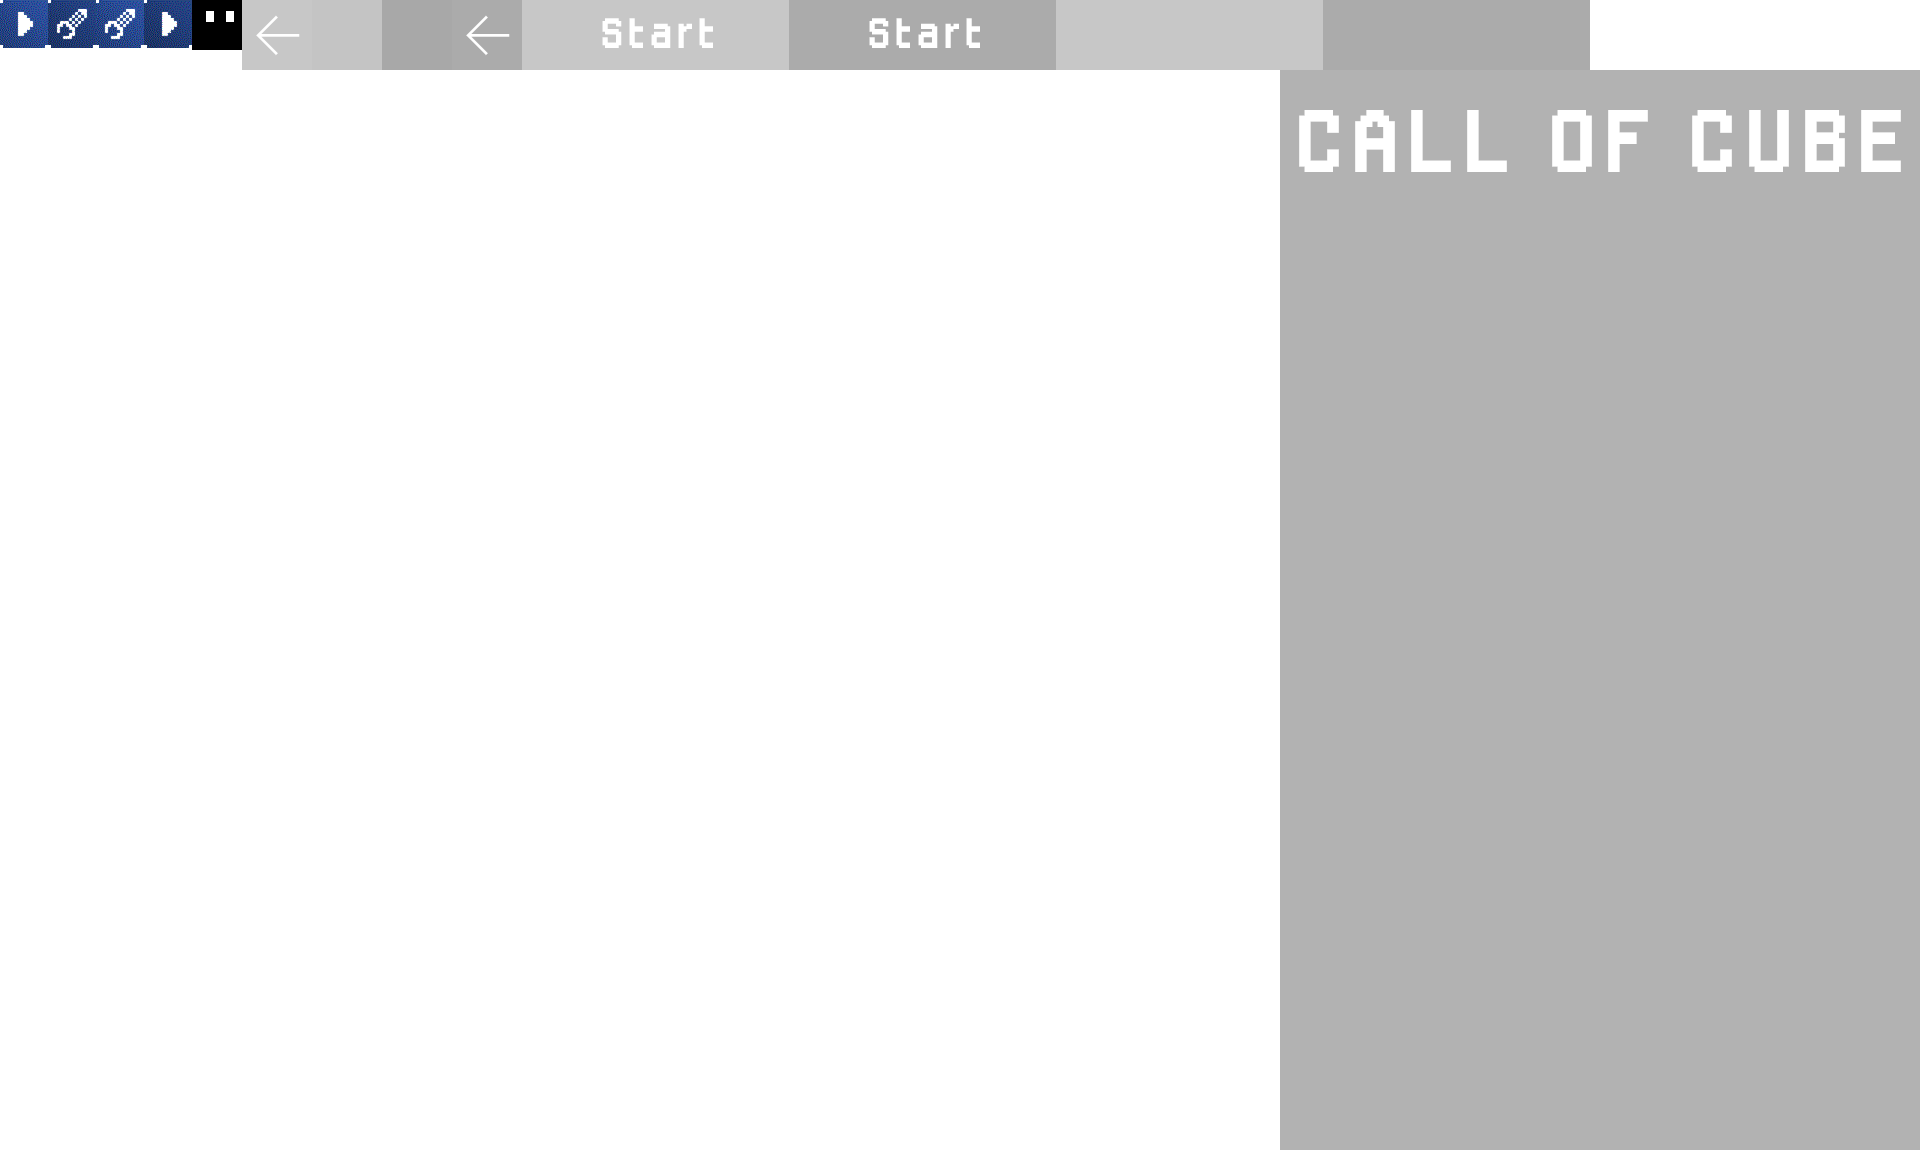
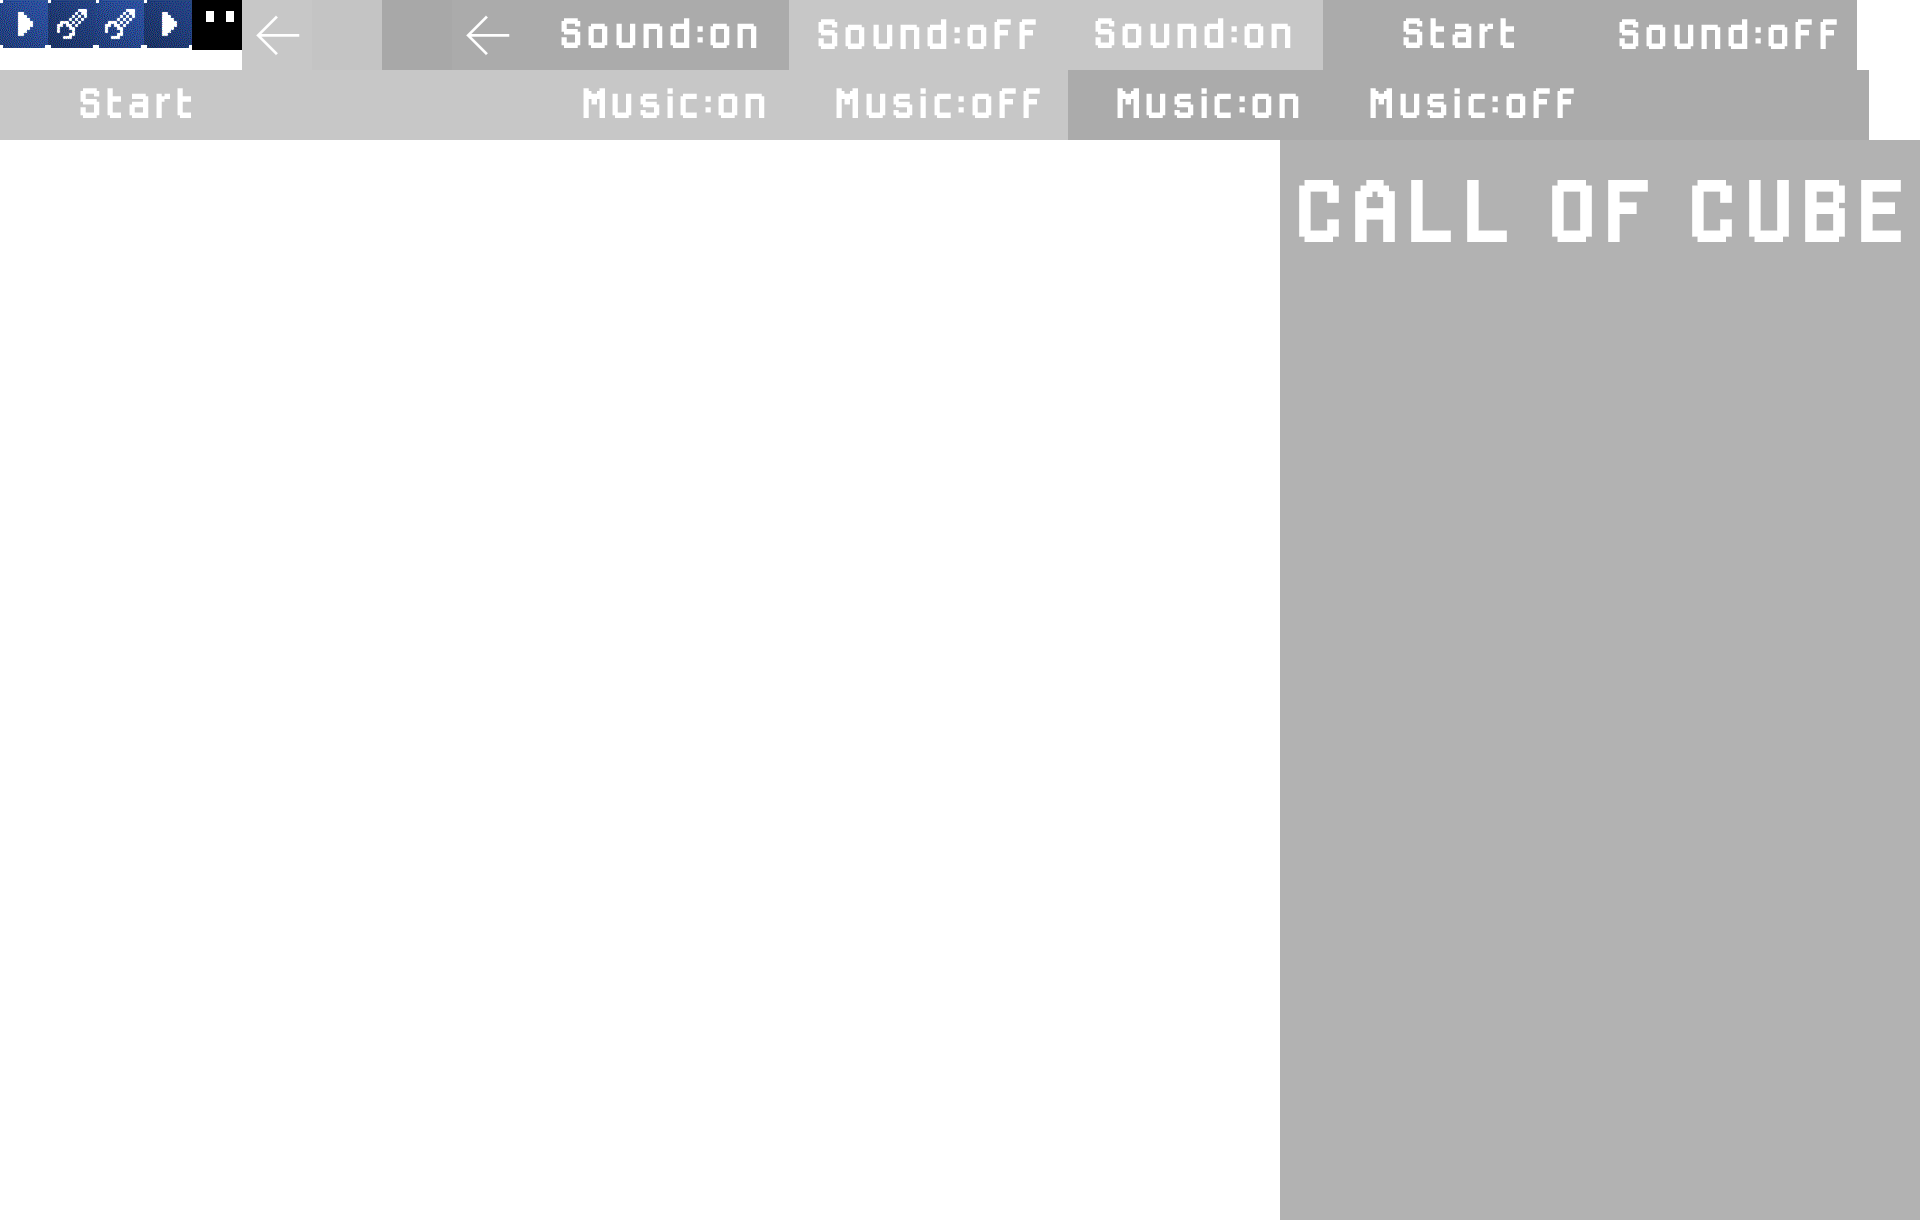
添加设置声音和背景音乐的按钮

Changed region(s): [[0.0, 0.0, 1.0, 0.213], [0.8125, 0.0, 0.9688, 0.0609]]

diff --git a/core/src/com/rollernigi/game/screens/SelectStageScreen.java b/core/src/com/rollernigi/game/screens/SelectStageScreen.java
@@ -17,6 +17,8 @@ import com.badlogic.gdx.scenes.scene2d.ui.Table;
 import com.badlogic.gdx.scenes.scene2d.utils.ChangeListener;
 import com.badlogic.gdx.utils.viewport.StretchViewport;
 import com.rollernigi.game.BasicClass.Assets;
+import com.rollernigi.game.BasicClass.WorldController;
+import com.rollernigi.game.BasicClass.WorldRenderer;
 import com.rollernigi.game.screens.transitions.DirectedGame;
 import com.rollernigi.game.screens.transitions.ScreenTransitionSlide;
 import com.rollernigi.game.util.Constants;
@@ -29,10 +31,28 @@ public class SelectStageScreen extends AbstractGameScreen{
     private Stage stage;
     private Skin skinCOC;
 
+
+    public String selectedLevel="00";
+
     //菜单
     private Image imgBackground;
     private Image imgJumper;
     private Button btnMenuPlay;
+    private Button btnMenuPlay2;
+    private Button btnMenuPlay3;
+    private Button btnMenuPlay4;
+    private Button btnMenuPlay5;
+    private Button btnMenuPlay6;
+    private Button btnMenuPlay7;
+    private Button btnMenuPlay8;
+    private Button btnMenuPlay9;
+    private Button btnMenuPlay10;
+    private Button btnMenuPlay11;
+    private Button btnMenuPlay12;
+    private Button btnMenuPlay13;
+    private Button btnMenuPlay14;
+    private Button btnMenuPlay15;
+    private Button btnMenuPlay16;
     private Button btnMenuOptions;
 
     //TODO:Add more levels
@@ -72,7 +92,6 @@ public class SelectStageScreen extends AbstractGameScreen{
 
     private Table buildControlLayer1() {
         Table layer = new Table();
-        layer.right().bottom();
 
         //开始按钮
         btnMenuPlay = new Button(skinCOC,"BlockButton");
@@ -83,6 +102,141 @@ public class SelectStageScreen extends AbstractGameScreen{
                 onPlayClicked();
             }
         });
+
+        //开始按钮
+        btnMenuPlay2 = new Button(skinCOC,"BlockButton");
+        layer.add(btnMenuPlay2);
+        btnMenuPlay.addListener(new ChangeListener() {
+            @Override
+            public void changed(ChangeEvent event, Actor actor) {
+                onPlayClicked();
+            }
+        });
+
+        //开始按钮
+        btnMenuPlay3 = new Button(skinCOC,"BlockButton");
+        layer.add(btnMenuPlay3);
+        btnMenuPlay.addListener(new ChangeListener() {
+            @Override
+            public void changed(ChangeEvent event, Actor actor) {
+                onPlayClicked();
+            }
+        });
+
+        //开始按钮
+        btnMenuPlay4 = new Button(skinCOC,"BlockButton");
+        layer.add(btnMenuPlay4);
+        btnMenuPlay.addListener(new ChangeListener() {
+            @Override
+            public void changed(ChangeEvent event, Actor actor) {
+                onPlayClicked();
+            }
+        });
+        btnMenuPlay5 = new Button(skinCOC,"BlockButton");
+        layer.add(btnMenuPlay5);
+        btnMenuPlay.addListener(new ChangeListener() {
+            @Override
+            public void changed(ChangeEvent event, Actor actor) {
+                onPlayClicked();
+            }
+        });
+        btnMenuPlay6 = new Button(skinCOC,"BlockButton");
+        layer.add(btnMenuPlay6);
+        btnMenuPlay.addListener(new ChangeListener() {
+            @Override
+            public void changed(ChangeEvent event, Actor actor) {
+                onPlayClicked();
+            }
+        });
+        btnMenuPlay7 = new Button(skinCOC,"BlockButton");
+        layer.add(btnMenuPlay7);
+        btnMenuPlay.addListener(new ChangeListener() {
+            @Override
+            public void changed(ChangeEvent event, Actor actor) {
+                onPlayClicked();
+            }
+        });
+        btnMenuPlay8 = new Button(skinCOC,"BlockButton");
+        layer.add(btnMenuPlay8);
+        btnMenuPlay.addListener(new ChangeListener() {
+            @Override
+            public void changed(ChangeEvent event, Actor actor) {
+                onPlayClicked();
+            }
+        });
+        layer.row();
+        //开始按钮
+        btnMenuPlay9 = new Button(skinCOC,"BlockButton");
+        layer.add(btnMenuPlay9);
+        btnMenuPlay.addListener(new ChangeListener() {
+            @Override
+            public void changed(ChangeEvent event, Actor actor) {
+                onPlayClicked();
+            }
+        });
+
+        //开始按钮
+        btnMenuPlay10 = new Button(skinCOC,"BlockButton");
+        layer.add(btnMenuPlay10);
+        btnMenuPlay.addListener(new ChangeListener() {
+            @Override
+            public void changed(ChangeEvent event, Actor actor) {
+                onPlayClicked();
+            }
+        });
+
+        //开始按钮
+        btnMenuPlay11 = new Button(skinCOC,"BlockButton");
+        layer.add(btnMenuPlay11);
+        btnMenuPlay.addListener(new ChangeListener() {
+            @Override
+            public void changed(ChangeEvent event, Actor actor) {
+                onPlayClicked();
+            }
+        });
+
+        //开始按钮
+        btnMenuPlay12 = new Button(skinCOC,"BlockButton");
+        layer.add(btnMenuPlay12);
+        btnMenuPlay.addListener(new ChangeListener() {
+            @Override
+            public void changed(ChangeEvent event, Actor actor) {
+                onPlayClicked();
+            }
+        });
+        btnMenuPlay13 = new Button(skinCOC,"BlockButton");
+        layer.add(btnMenuPlay13);
+        btnMenuPlay.addListener(new ChangeListener() {
+            @Override
+            public void changed(ChangeEvent event, Actor actor) {
+                onPlayClicked();
+            }
+        });
+        btnMenuPlay14 = new Button(skinCOC,"BlockButton");
+        layer.add(btnMenuPlay14);
+        btnMenuPlay.addListener(new ChangeListener() {
+            @Override
+            public void changed(ChangeEvent event, Actor actor) {
+                onPlayClicked();
+            }
+        });
+        btnMenuPlay15 = new Button(skinCOC,"BlockButton");
+        layer.add(btnMenuPlay15);
+        btnMenuPlay.addListener(new ChangeListener() {
+            @Override
+            public void changed(ChangeEvent event, Actor actor) {
+                onPlayClicked();
+            }
+        });
+        btnMenuPlay16 = new Button(skinCOC,"BlockButton");
+        layer.add(btnMenuPlay16);
+        btnMenuPlay.addListener(new ChangeListener() {
+            @Override
+            public void changed(ChangeEvent event, Actor actor) {
+                onPlayClicked();
+            }
+        });
+
 
 
         return  layer;
@@ -151,11 +305,15 @@ public class SelectStageScreen extends AbstractGameScreen{
 
     private void gotoGameScreen(){
         ScreenTransition transition = ScreenTransitionFade.init(0.75f);
-        game.setScreen(new GameScreen(game),transition);
+        game.setScreen(new  GameScreen(game),transition);
     }
 
     private void backToMenuScreen(){
         ScreenTransition transition = ScreenTransitionSlide.init(0.75f,ScreenTransitionSlide.RIGHT,false,Interpolation.bounceOut);
         game.setScreen(new MenuScreen(game),transition);
+    }
+
+    public String getSelectedLevel() {
+        return selectedLevel;
     }
 }

diff --git a/core/src/com/rollernigi/game/screens/MenuScreen.java b/core/src/com/rollernigi/game/screens/MenuScreen.java
@@ -25,6 +25,7 @@ import com.rollernigi.game.screens.transitions.DirectedGame;
 import com.rollernigi.game.screens.transitions.ScreenTransitionSlide;
 import com.rollernigi.game.util.Constants;
 import com.rollernigi.game.screens.transitions.ScreenTransition;
+import com.rollernigi.game.util.GamePerferences;
 import com.rollernigi.game.screens.transitions.ScreenTransitionFade;
 
 public class MenuScreen extends AbstractGameScreen{
@@ -42,10 +43,32 @@ public class MenuScreen extends AbstractGameScreen{
     private Button btnMenuOptions3;
     private Button btnMenuOptions4;
 
+    private boolean ssound=true,smusic=true;
+
     private boolean paused;
 
     private WorldController worldController;
     private WorldRenderer worldRenderer;
+
+    private void loadSettings(){
+        GamePerferences prefs = GamePerferences.instance;
+        prefs.load();
+        if(prefs.music==true){
+            smusic=true;
+            btnMenuOptions4 = new Button(skinCOC,"MusicButton");
+        }else if(prefs.music==false){
+            smusic=false;
+            btnMenuOptions4 = new Button(skinCOC,"MusicButton2");
+        }
+        if(prefs.sound==true){
+            ssound=true;
+            btnMenuOptions3 = new Button(skinCOC,"SoundButton");
+        }else if(prefs.sound==false){
+            ssound=false;
+            btnMenuOptions3 = new Button(skinCOC,"SoundButton2");
+        }
+       refresh();
+    }
 
 
     public MenuScreen(DirectedGame game) {
@@ -71,18 +94,10 @@ public class MenuScreen extends AbstractGameScreen{
         worldRenderer.setHideGUI();
         worldController.setInputAble();
         skinCOC=new Skin(Gdx.files.internal(Constants.SKIN_COC_UI),new TextureAtlas(Constants.TEXTURE_ATLAS_UI));
+        btnMenuOptions4 = new Button(skinCOC,"MusicButton");
+        btnMenuOptions4 = new Button(skinCOC,"MusicButton2");
+        loadSettings();
 
-        Table layerBackground = buildBackgourndLayer();
-        Table layerLogo = buildLogoLayer();
-        Table layerControls = buildControlLayer();
-
-        stage.clear();
-        Stack stack = new Stack();
-        stage.addActor(stack);
-        stack.setSize(800f,480f);
-        stack.add(layerBackground);
-        stack.add(layerLogo);
-        stack.add(layerControls);
     }
 
     private Table buildBackgourndLayer() {
@@ -125,25 +140,29 @@ public class MenuScreen extends AbstractGameScreen{
             }
         });
         layer.row();
-        btnMenuOptions3 = new Button(skinCOC,"defaultButton");
         layer.add(btnMenuOptions3);
-        btnMenuOptions.addListener(new ChangeListener() {
+        btnMenuOptions3.addListener(new ChangeListener() {
             @Override
             public void changed(ChangeEvent event, Actor actor) {
-                onOptionsClicked();
+                ssound=!ssound;
+                GamePerferences prers = GamePerferences.instance;
+                prers.sound=ssound;
+                prers.save();
+                loadSettings();
             }
         });
         layer.row();
-        btnMenuOptions4 = new Button(skinCOC,"defaultButton");
         layer.add(btnMenuOptions4);
-        btnMenuOptions.addListener(new ChangeListener() {
+        btnMenuOptions4.addListener(new ChangeListener() {
             @Override
             public void changed(ChangeEvent event, Actor actor) {
-                onOptionsClicked();
+                smusic=!smusic;
+                GamePerferences prers = GamePerferences.instance;
+                prers.music=smusic;
+                prers.save();
+                loadSettings();
             }
         });
-
-
 
         return  layer;
     }
@@ -198,4 +217,19 @@ public class MenuScreen extends AbstractGameScreen{
         ScreenTransition transition = ScreenTransitionSlide.init(0.75f,ScreenTransitionSlide.LEFT,false,Interpolation.bounceOut);
         game.setScreen(new SelectStageScreen(game),transition);
     }
+
+    private void refresh(){
+        Table layerBackground = buildBackgourndLayer();
+        Table layerLogo = buildLogoLayer();
+        Table layerControls = buildControlLayer();
+
+        stage.clear();
+        Stack stack = new Stack();
+        stage.addActor(stack);
+        stack.setSize(800f,480f);
+        stack.add(layerBackground);
+        stack.add(layerLogo);
+        stack.add(layerControls);
+    }
+
 }

diff --git a/core/src/com/rollernigi/game/util/GamePerferences.java b/core/src/com/rollernigi/game/util/GamePerferences.java
@@ -1,0 +1,35 @@
+package com.rollernigi.game.util;
+
+import com.badlogic.gdx.Gdx;
+import com.badlogic.gdx.Preferences;
+import com.badlogic.gdx.math.MathUtils;
+import com.rollernigi.game.util.Constants;
+
+import java.security.Permission;
+
+public class GamePerferences
+{
+    public static final GamePerferences instance = new GamePerferences();
+
+    public boolean sound;
+    public boolean music;
+    public String currentLevel;
+
+    private Preferences prers;
+
+    private GamePerferences(){
+        prers = Gdx.app.getPreferences(Constants.PREFERENCES);
+    }
+    public void load(){
+        sound = prers.getBoolean("sound",true);
+        music = prers.getBoolean("music",true);
+        currentLevel = prers.getString("currentLevel","999");
+    }
+
+    public void save(){
+        prers.putBoolean("sound",sound);
+        prers.putBoolean("music",music);
+        prers.putString("currentLevel",currentLevel);
+        prers.flush();
+    }
+}

diff --git a/core/src/com/rollernigi/game/screens/GameScreen.java b/core/src/com/rollernigi/game/screens/GameScreen.java
@@ -4,6 +4,8 @@ import com.badlogic.gdx.InputProcessor;
 import com.badlogic.gdx.Game;
 import com.badlogic.gdx.Gdx;
 import com.badlogic.gdx.graphics.GL20;
+import com.rollernigi.game.BasicClass.Assets;
+import com.rollernigi.game.BasicClass.Level;
 import com.rollernigi.game.BasicClass.WorldController;
 import com.rollernigi.game.BasicClass.WorldRenderer;
 import com.rollernigi.game.screens.transitions.DirectedGame;
